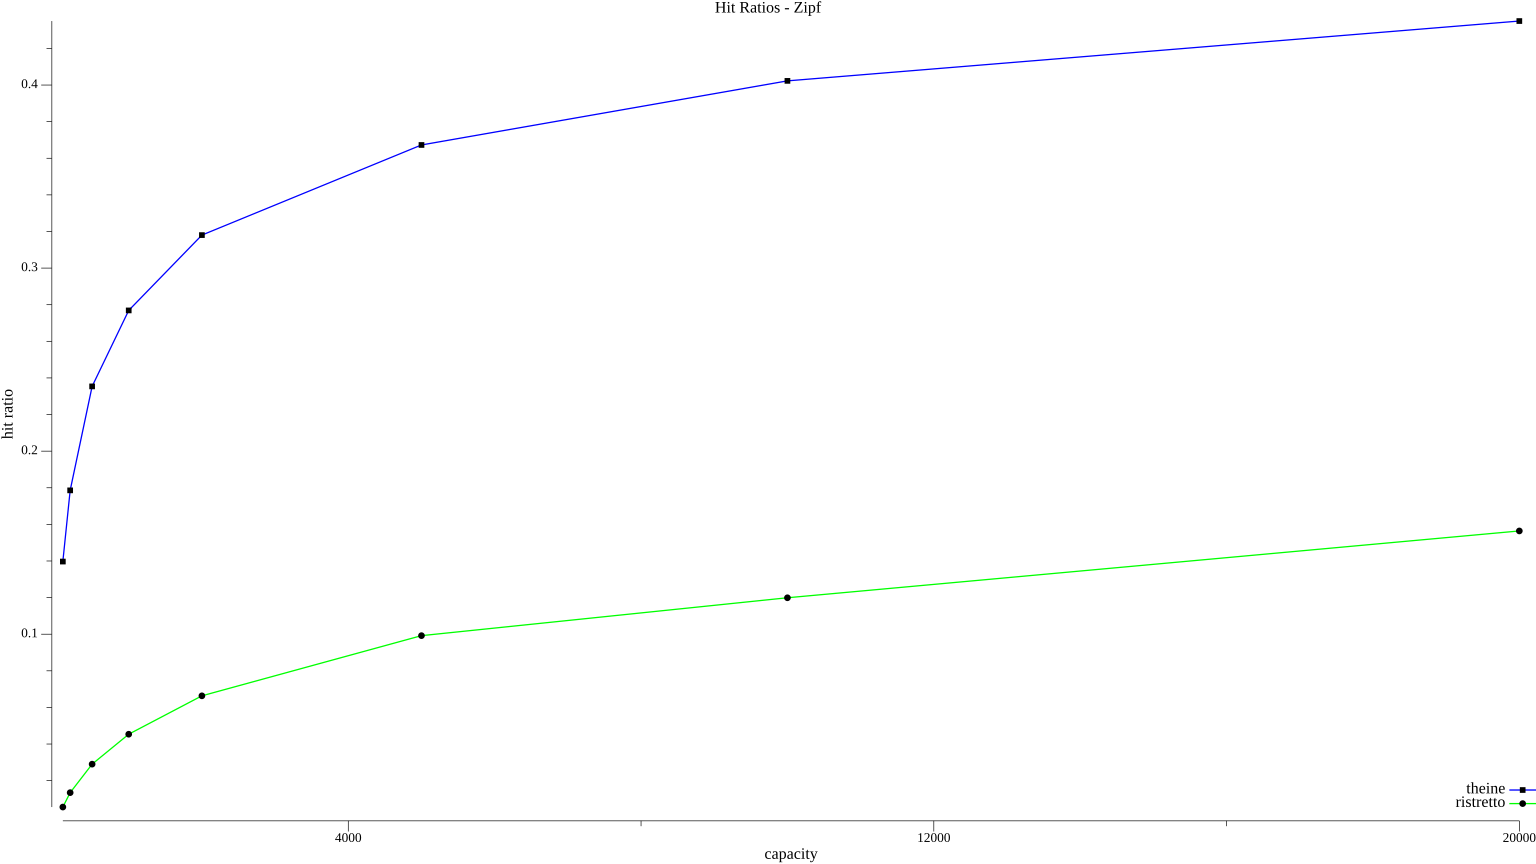
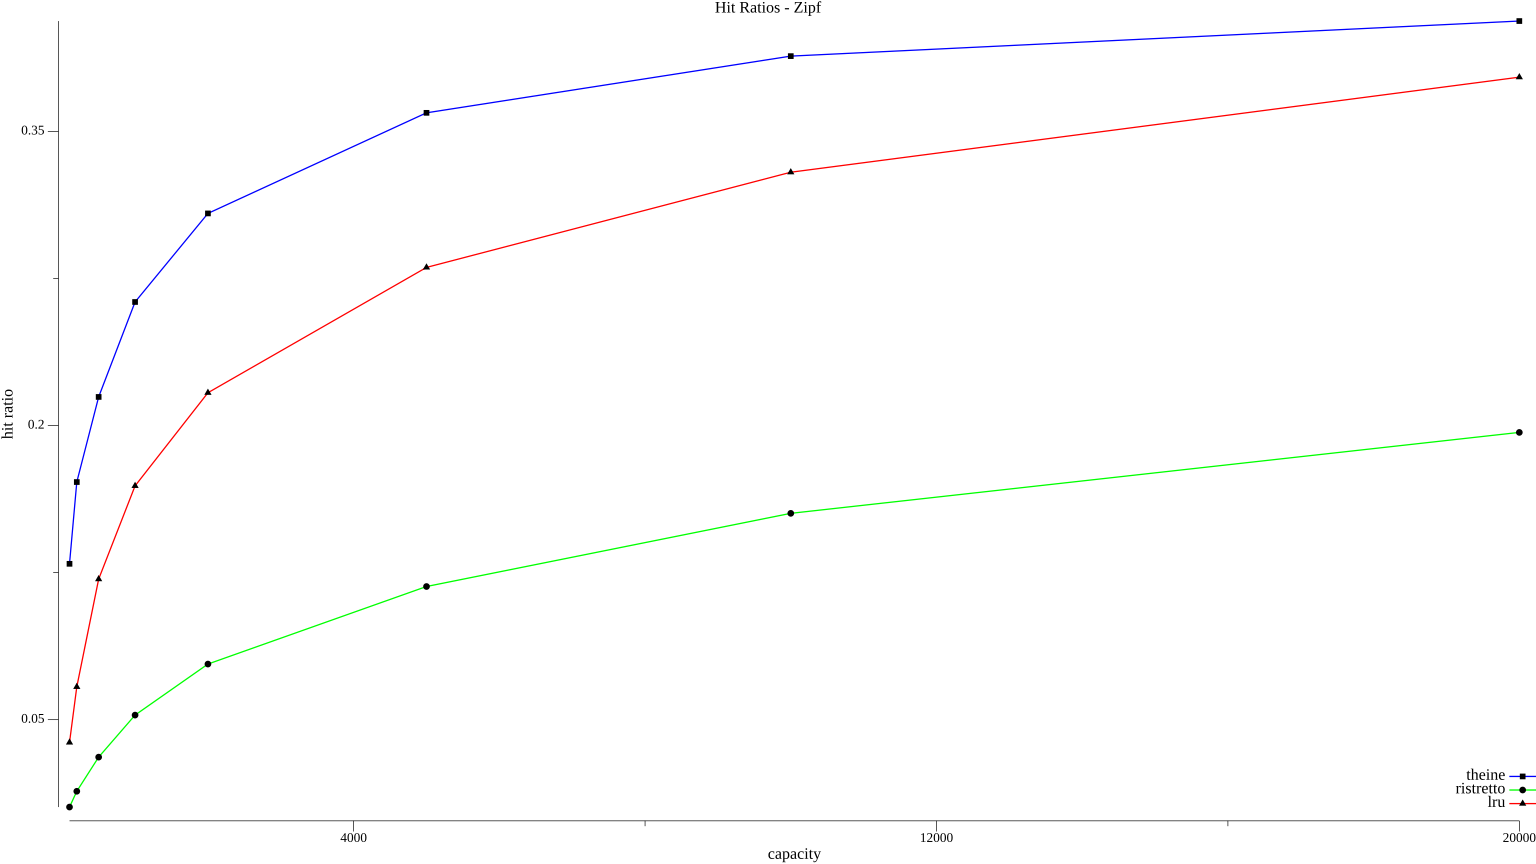
update benchmarks

diff --git a/benchmark_test.go b/benchmark_test.go
@@ -15,7 +15,7 @@ type bar struct {
 }
 
 func BenchmarkGetTheineParallel(b *testing.B) {
-	client, err := theine.New[string, foo](&theine.Config[foo]{MaximumSize: 10000})
+	client, err := theine.New[string, foo](&theine.Config[foo]{MaximumSize: 100000})
 	if err != nil {
 		panic(err)
 	}
@@ -35,8 +35,8 @@ func BenchmarkGetTheineParallel(b *testing.B) {
 
 func BenchmarkGetRistrettoParallel(b *testing.B) {
 	client, err := ristretto.NewCache(&ristretto.Config{
-		NumCounters: 100000,
-		MaxCost:     10000,
+		NumCounters: 1000000,
+		MaxCost:     100000,
 		BufferItems: 64,
 	})
 	if err != nil {
@@ -57,19 +57,19 @@ func BenchmarkGetRistrettoParallel(b *testing.B) {
 }
 
 func BenchmarkSetTheineParallel(b *testing.B) {
-	client, err := theine.New[string, bar](&theine.Config[bar]{MaximumSize: 10000})
+	client, err := theine.New[string, bar](&theine.Config[bar]{MaximumSize: 100000})
 	if err != nil {
 		panic(err)
 	}
 	keys := []string{}
-	for i := 0; i < 100000; i++ {
+	for i := 0; i < 1000000; i++ {
 		keys = append(keys, fmt.Sprintf("%d", i))
 	}
 	b.ResetTimer()
 	b.RunParallel(func(pb *testing.PB) {
 		counter := 0
 		for pb.Next() {
-			client.Set(keys[counter%100000], bar{key: keys[counter%100000]}, 1)
+			client.Set(keys[counter%1000000], bar{key: keys[counter%1000000]}, 1)
 			counter++
 		}
 	})
@@ -77,44 +77,44 @@ func BenchmarkSetTheineParallel(b *testing.B) {
 
 func BenchmarkSetRistrettoParallel(b *testing.B) {
 	client, err := ristretto.NewCache(&ristretto.Config{
-		NumCounters: 100000,
-		MaxCost:     10000,
+		NumCounters: 1000000,
+		MaxCost:     100000,
 		BufferItems: 64,
 	})
 	if err != nil {
 		panic(err)
 	}
 	keys := []string{}
-	for i := 0; i < 100000; i++ {
+	for i := 0; i < 1000000; i++ {
 		keys = append(keys, fmt.Sprintf("%d", i))
 	}
 	b.ResetTimer()
 	b.RunParallel(func(pb *testing.PB) {
 		counter := 0
 		for pb.Next() {
-			client.Set(keys[counter%100000], bar{key: keys[counter%100000]}, 1)
+			client.Set(keys[counter%1000000], bar{key: keys[counter%1000000]}, 1)
 			counter++
 		}
 	})
 }
 
 func BenchmarkZipfTheineParallel(b *testing.B) {
-	client, err := theine.New[string, bar](&theine.Config[bar]{MaximumSize: 10000})
+	client, err := theine.New[string, bar](&theine.Config[bar]{MaximumSize: 100000})
 	if err != nil {
 		panic(err)
 	}
 	z := rand.NewZipf(rand.New(rand.NewSource(time.Now().UnixNano())), 1.0001, 10, 1000000)
 	keys := []string{}
-	for i := 0; i < 100000; i++ {
+	for i := 0; i < 1000000; i++ {
 		keys = append(keys, fmt.Sprintf("%d", z.Uint64()))
 	}
 	b.ResetTimer()
 	b.RunParallel(func(pb *testing.PB) {
 		counter := 0
 		for pb.Next() {
-			_, ok := client.Get(keys[counter%100000])
+			_, ok := client.Get(keys[counter%1000000])
 			if !ok {
-				client.Set(keys[counter%100000], bar{key: keys[counter%100000]}, 1)
+				client.Set(keys[counter%1000000], bar{key: keys[counter%1000000]}, 1)
 			}
 			counter++
 		}
@@ -123,8 +123,8 @@ func BenchmarkZipfTheineParallel(b *testing.B) {
 
 func BenchmarkZipfRistrettoParallel(b *testing.B) {
 	client, err := ristretto.NewCache(&ristretto.Config{
-		NumCounters: 100000,
-		MaxCost:     10000,
+		NumCounters: 1000000,
+		MaxCost:     100000,
 		BufferItems: 64,
 	})
 	if err != nil {
@@ -132,16 +132,16 @@ func BenchmarkZipfRistrettoParallel(b *testing.B) {
 	}
 	z := rand.NewZipf(rand.New(rand.NewSource(time.Now().UnixNano())), 1.0001, 10, 1000000)
 	keys := []string{}
-	for i := 0; i < 100000; i++ {
+	for i := 0; i < 1000000; i++ {
 		keys = append(keys, fmt.Sprintf("%d", z.Uint64()))
 	}
 	b.ResetTimer()
 	b.RunParallel(func(pb *testing.PB) {
 		counter := 0
 		for pb.Next() {
-			_, ok := client.Get(keys[counter%100000])
+			_, ok := client.Get(keys[counter%1000000])
 			if !ok {
-				client.Set(keys[counter%100000], bar{key: keys[counter%100000]}, 1)
+				client.Set(keys[counter%1000000], bar{key: keys[counter%1000000]}, 1)
 			}
 			counter++
 		}

diff --git a/benchmarks/main.go b/benchmarks/main.go
@@ -128,7 +128,7 @@ func infinite(client clients.Client[int, int], cap int, concurrency int) {
 		go func() {
 			defer wg.Done()
 			z := rand.NewZipf(
-				rand.New(rand.NewSource(time.Now().UnixNano())), 1.0001, 10, 1000000,
+				rand.New(rand.NewSource(time.Now().UnixNano())), 1.0001, 10, 10000000,
 			)
 			for {
 				total.Add(1)
@@ -237,7 +237,7 @@ func benchParallel(client clients.Client[string, string], cap int, gen func(keyC
 	return hr
 }
 
-func benchAndPlot(title string, caps []int, gen func(keyChan chan key)) {
+func benchAndPlot(title string, caps []int, gen func(keyChan chan key), parallel bool) {
 	p := plot.New()
 	p.Title.Text = fmt.Sprintf("Hit Ratios - %s", title)
 	p.X.Label.Text = "capacity"
@@ -245,14 +245,22 @@ func benchAndPlot(title string, caps []int, gen func(keyChan chan key)) {
 
 	tdata := plotter.XYs{}
 	rdata := plotter.XYs{}
+	ldata := plotter.XYs{}
 	for _, cap := range caps {
 		tdot := plotter.XY{X: float64(cap)}
 		rdot := plotter.XY{X: float64(cap)}
+		ldot := plotter.XY{X: float64(cap)}
 		fmt.Printf("======= %s cache size: %d =======\n", strings.ToLower(title), cap)
-		tdot.Y = benchParallel(&clients.Theine[string, string]{}, cap, gen)
-		rdot.Y = benchParallel(&clients.Ristretto[string, string]{}, cap, gen)
+		bencher := bench
+		if parallel {
+			bencher = benchParallel
+		}
+		tdot.Y = bencher(&clients.Theine[string, string]{}, cap, gen)
+		rdot.Y = bencher(&clients.Ristretto[string, string]{}, cap, gen)
+		ldot.Y = bencher(&clients.LRU[string, string]{}, cap, gen)
 		tdata = append(tdata, tdot)
 		rdata = append(rdata, rdot)
+		ldata = append(ldata, ldot)
 	}
 	tline, tpoints, err := plotter.NewLinePoints(tdata)
 	if err != nil {
@@ -266,9 +274,19 @@ func benchAndPlot(title string, caps []int, gen func(keyChan chan key)) {
 	}
 	rline.Color = color.RGBA{G: 255, A: 255}
 	rpoints.Shape = draw.CircleGlyph{}
-	p.Add(tline, tpoints, rline, rpoints)
+	lline, lpoints, err := plotter.NewLinePoints(ldata)
+	if err != nil {
+		panic(err)
+	}
+	lline.Color = color.RGBA{R: 255, A: 255}
+	lpoints.Shape = draw.PyramidGlyph{}
+	p.Add(tline, tpoints, rline, rpoints, lline, lpoints)
 	p.Legend.Add("theine", tline, tpoints)
 	p.Legend.Add("ristretto", rline, rpoints)
+	p.Legend.Add("lru", lline, lpoints)
+	if parallel {
+		title += "-parallel"
+	}
 	if err := p.Save(
 		16*vg.Inch, 9*vg.Inch, fmt.Sprintf("results/%s.png", strings.ToLower(title)),
 	); err != nil {
@@ -281,10 +299,10 @@ func main() {
 	// infinite(&clients.Theine[int, int]{}, 100000, 12)
 	// infinite(&clients.Ristretto[int, int]{}, 100000, 12)
 
-	benchAndPlot("Zipf", []int{100, 200, 500, 1000, 2000, 5000, 10000, 20000}, zipfGen)
-	benchAndPlot("DS1", []int{1000000, 2000000, 3000000, 5000000, 6000000, 8000000}, ds1Gen)
-	benchAndPlot("S3", []int{50000, 100000, 200000, 300000, 500000, 800000, 1000000}, s3Gen)
-	benchAndPlot("SCARAB1H", []int{1000, 2000, 5000, 10000, 20000, 50000, 100000}, scarabGen)
-	benchAndPlot("META", []int{10000, 20000, 50000, 80000, 100000}, fbGen)
-
+	parallel := true
+	benchAndPlot("Zipf", []int{100, 200, 500, 1000, 2000, 5000, 10000, 20000}, zipfGen, parallel)
+	benchAndPlot("DS1", []int{1000000, 2000000, 3000000, 5000000, 6000000, 8000000}, ds1Gen, parallel)
+	benchAndPlot("S3", []int{50000, 100000, 200000, 300000, 500000, 800000, 1000000}, s3Gen, parallel)
+	benchAndPlot("SCARAB1H", []int{1000, 2000, 5000, 10000, 20000, 50000, 100000}, scarabGen, parallel)
+	benchAndPlot("META", []int{10000, 20000, 50000, 80000, 100000}, fbGen, parallel)
 }

diff --git a/benchmarks/clients/clients.go b/benchmarks/clients/clients.go
@@ -3,6 +3,7 @@ package clients
 import (
 	"github.com/Yiling-J/theine-go"
 	"github.com/dgraph-io/ristretto"
+	lru "github.com/hashicorp/golang-lru/v2"
 )
 
 type Client[K comparable, V any] interface {
@@ -81,4 +82,36 @@ func (c *Ristretto[K, V]) Name() string {
 
 func (c *Ristretto[K, V]) Close() {
 	c.client.Close()
+}
+
+type LRU[K comparable, V any] struct {
+	client *lru.Cache[K, V]
+}
+
+func (c *LRU[K, V]) Init(cap int) {
+	client, err := lru.New[K, V](cap)
+	if err != nil {
+		panic(err)
+	}
+	c.client = client
+
+}
+
+func (c *LRU[K, V]) GetSet(key K, value V) (V, bool) {
+	v, ok := c.client.Get(key)
+	if ok {
+		return v, true
+	}
+	c.client.Add(key, value)
+	return value, false
+}
+
+func (c *LRU[K, V]) Set(key K, value V) {
+	c.client.Add(key, value)
+}
+func (c *LRU[K, V]) Name() string {
+	return "lru"
+}
+
+func (c *LRU[K, V]) Close() {
 }
